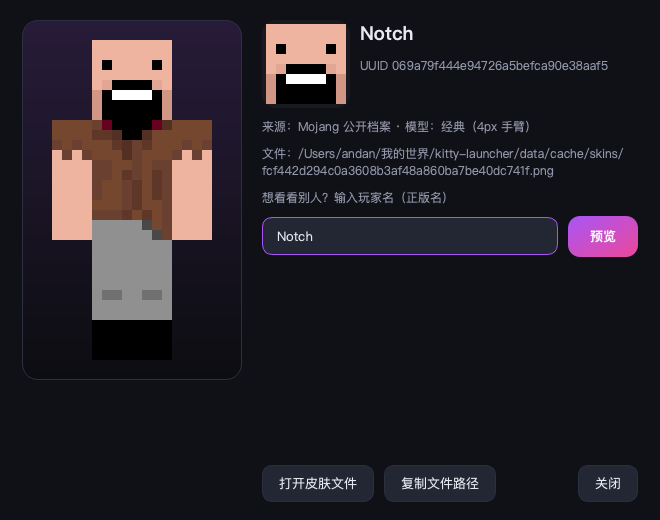
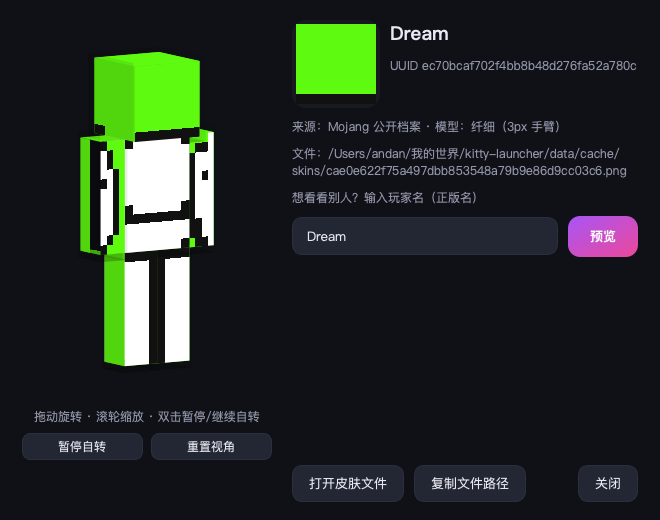
feat: 3D 皮肤预览（正交投影 + quadToQuad 贴图，可拖拽旋转/缩放/自转，兼容 slim 与 legacy）

diff --git a/kitty/skin3d.py b/kitty/skin3d.py
@@ -1,0 +1,327 @@
+"""3D 皮肤渲染：正交投影 + 每个面做四点透视映射，纯 Qt，不用 OpenGL。
+
+思路：
+    1. 把皮肤拆成 6 个长方体部件（头 / 身 / 双臂 / 双腿）
+    2. 每个部件的 6 个面都有标准 UV 区域
+    3. 按 yaw/pitch 旋转 3D 顶点 → 正交投影到 2D → 得到 4 个屏幕坐标
+    4. 用 QTransform.quadToQuad 把「皮肤上的那个矩形」映射到这个四边形上
+    5. 所有面按深度排序后依次画（画家算法），足够画一个方块小人
+
+坐标系：y 向上，脚底 y=0，头顶 y=32；1 单位 = 1 像素（16 单位 = 1 格）。
+"""
+from __future__ import annotations
+
+import math
+from pathlib import Path
+
+from PySide6.QtCore import QPointF, QRectF, Qt
+from PySide6.QtGui import QColor, QImage, QPainter, QPainterPath, QPixmap, QPolygonF, QTransform
+
+# 每个面的 UV 区域：(u, v, w, h)
+HEAD_UV = {
+    "front": (8, 8, 8, 8), "right": (0, 8, 8, 8), "back": (24, 8, 8, 8),
+    "left": (16, 8, 8, 8), "top": (8, 0, 8, 8), "bottom": (16, 0, 8, 8),
+}
+HEAD_OV = {
+    "front": (40, 8, 8, 8), "right": (32, 8, 8, 8), "back": (56, 8, 8, 8),
+    "left": (48, 8, 8, 8), "top": (40, 0, 8, 8), "bottom": (48, 0, 8, 8),
+}
+BODY_UV = {
+    "front": (20, 20, 8, 12), "right": (16, 20, 4, 12), "back": (32, 20, 8, 12),
+    "left": (28, 20, 4, 12), "top": (20, 16, 8, 4), "bottom": (28, 16, 8, 4),
+}
+BODY_OV = {
+    "front": (20, 36, 8, 12), "right": (16, 36, 4, 12), "back": (32, 36, 8, 12),
+    "left": (28, 36, 4, 12), "top": (20, 32, 8, 4), "bottom": (28, 32, 8, 4),
+}
+RARM_UV = {
+    "front": (44, 20, 4, 12), "right": (40, 20, 4, 12), "back": (56, 20, 4, 12),
+    "left": (52, 20, 4, 12), "top": (44, 16, 4, 4), "bottom": (48, 16, 4, 4),
+}
+RARM_OV = {
+    "front": (44, 36, 4, 12), "right": (40, 36, 4, 12), "back": (56, 36, 4, 12),
+    "left": (52, 36, 4, 12), "top": (44, 32, 4, 4), "bottom": (48, 32, 4, 4),
+}
+LARM_UV = {
+    "front": (36, 52, 4, 12), "right": (32, 52, 4, 12), "back": (48, 52, 4, 12),
+    "left": (44, 52, 4, 12), "top": (36, 48, 4, 4), "bottom": (40, 48, 4, 4),
+}
+LARM_OV = {
+    "front": (52, 52, 4, 12), "right": (48, 52, 4, 12), "back": (64, 52, 4, 12),
+    "left": (60, 52, 4, 12), "top": (52, 48, 4, 4), "bottom": (56, 48, 4, 4),
+}
+RLEG_UV = {
+    "front": (4, 20, 4, 12), "right": (0, 20, 4, 12), "back": (16, 20, 4, 12),
+    "left": (12, 20, 4, 12), "top": (4, 16, 4, 4), "bottom": (8, 16, 4, 4),
+}
+RLEG_OV = {
+    "front": (4, 36, 4, 12), "right": (0, 36, 4, 12), "back": (16, 36, 4, 12),
+    "left": (12, 36, 4, 12), "top": (4, 32, 4, 4), "bottom": (8, 32, 4, 4),
+}
+LLEG_UV = {
+    "front": (20, 52, 4, 12), "right": (16, 52, 4, 12), "back": (32, 52, 4, 12),
+    "left": (28, 52, 4, 12), "top": (20, 48, 4, 4), "bottom": (24, 48, 4, 4),
+}
+LLEG_OV = {
+    "front": (4, 52, 4, 12), "right": (0, 52, 4, 12), "back": (52, 52, 4, 12),
+    "left": (48, 52, 4, 12), "top": (4, 48, 4, 4), "bottom": (8, 48, 4, 4),
+}
+
+SHADE = {"front": 1.0, "back": 0.78, "left": 0.86, "right": 0.86, "top": 1.0, "bottom": 0.6}
+
+PARTS = [
+    {"name": "head", "size": (8, 8, 8), "pos": (0, 28, 0), "uv": HEAD_UV, "ov": HEAD_OV},
+    {"name": "body", "size": (8, 12, 4), "pos": (0, 18, 0), "uv": BODY_UV, "ov": BODY_OV},
+    {"name": "rarm", "size": (4, 12, 4), "pos": (6, 18, 0), "uv": RARM_UV, "ov": RARM_OV},
+    {"name": "larm", "size": (4, 12, 4), "pos": (-6, 18, 0), "uv": LARM_UV, "ov": LARM_OV},
+    {"name": "rleg", "size": (4, 12, 4), "pos": (2, 6, 0), "uv": RLEG_UV, "ov": RLEG_OV},
+    {"name": "lleg", "size": (4, 12, 4), "pos": (-2, 6, 0), "uv": LLEG_UV, "ov": LLEG_OV},
+]
+
+
+def _face_quads(hx: float, hy: float, hz: float) -> dict[str, list[tuple[float, float, float]]]:
+    """六个面的 4 个角（顺序：左上、右上、右下、左下）。"""
+    return {
+        "front": [(-hx, hy, hz), (hx, hy, hz), (hx, -hy, hz), (-hx, -hy, hz)],
+        "right": [(hx, hy, hz), (hx, hy, -hz), (hx, -hy, -hz), (hx, -hy, hz)],
+        "back": [(hx, hy, -hz), (-hx, hy, -hz), (-hx, -hy, -hz), (hx, -hy, -hz)],
+        "left": [(-hx, hy, -hz), (-hx, hy, hz), (-hx, -hy, hz), (-hx, -hy, -hz)],
+        "top": [(-hx, hy, hz), (hx, hy, hz), (hx, hy, -hz), (-hx, hy, -hz)],
+        "bottom": [(-hx, -hy, -hz), (hx, -hy, -hz), (hx, -hy, hz), (-hx, -hy, hz)],
+    }
+
+
+def _rotate(p: tuple[float, float, float], yaw: float, pitch: float) -> tuple[float, float, float]:
+    x, y, z = p
+    cy, sy = math.cos(yaw), math.sin(yaw)
+    x, z = x * cy + z * sy, -x * sy + z * cy
+    cp, sp = math.cos(pitch), math.sin(pitch)
+    y, z = y * cp - z * sp, y * sp + z * cp
+    return x, y, z
+
+
+def parts_for(slim: bool = False) -> list[dict]:
+    """slim（Alex）模型手臂只有 3 宽，位置也要往里收 0.5。"""
+    out = []
+    for part in PARTS:
+        if slim and part["name"] in ("rarm", "larm"):
+            sign = 1 if part["name"] == "rarm" else -1
+            out.append({**part, "size": (3, 12, 4), "pos": (sign * 5.5, 18, 0)})
+        else:
+            out.append(part)
+    return out
+
+
+def render(
+    skin_path: Path | str,
+    width: int = 300,
+    height: int = 420,
+    yaw_deg: float = 25.0,
+    pitch_deg: float = 6.0,
+    scale: float = 1.0,
+    overlays: bool = True,
+    slim: bool = False,
+) -> QPixmap:
+    img = QImage(str(skin_path))
+    if img.isNull():
+        return QPixmap()
+
+    legacy = img.height() < 64
+    yaw = math.radians(yaw_deg)
+    pitch = math.radians(pitch_deg)
+
+    # 先把所有面算成 {depth, polygon, uv}
+    faces: list[dict] = []
+    for part in parts_for(slim):
+        sx, sy, sz = part["size"]
+        px, py, pz = part["pos"]
+        uv_base = part["uv"]
+        if legacy and part["name"] == "larm":
+            uv_base = RARM_UV   # 64×32 老皮肤没有左臂，用右臂顶替
+        elif legacy and part["name"] == "lleg":
+            uv_base = RLEG_UV
+        variants = [(1.0, uv_base)]
+        if overlays and not legacy:
+            variants.append((1.12, part["ov"]))  # 叠加层稍微放大一点，避免和本体 z-fighting
+
+        for inflate, uvmap in variants:
+            hx, hy, hz = sx * inflate / 2, sy * inflate / 2, sz * inflate / 2
+            quads = _face_quads(hx, hy, hz)
+            for face, corners in quads.items():
+                uv = uvmap.get(face)
+                if not uv:
+                    continue
+                pts3 = [(x + px, y + py, z + pz) for (x, y, z) in corners]
+                rot = [_rotate(p, yaw, pitch) for p in pts3]
+                depth = sum(p[2] for p in rot) / 4.0
+                # UV 顺序：左上、右上、右下、左下
+                u, v, uw, uh = uv
+                faces.append({
+                    "depth": depth,
+                    "pts": rot,
+                    "uv": (u, v, uw, uh),
+                    "shade": SHADE.get(face, 1.0),
+                })
+
+    # 远的先画
+    faces.sort(key=lambda f: f["depth"])
+
+    pm = QPixmap(width, height)
+    pm.fill(Qt.transparent)
+    p = QPainter(pm)
+    p.setRenderHint(QPainter.Antialiasing, True)
+    p.setRenderHint(QPainter.SmoothPixmapTransform, False)  # 像素风要硬边
+
+    # 按投影后的包围盒居中，避免不同角度/身高时跑出画布
+    xs = [pt.x() for face in faces for pt in [QPointF(x, -y) for (x, y, _z) in face["pts"]]]
+    ys = [pt.y() for face in faces for pt in [QPointF(x, -y) for (x, y, _z) in face["pts"]]]
+    if not xs:
+        p.end()
+        return pm
+    span_x = max(xs) - min(xs) or 1.0
+    span_y = max(ys) - min(ys) or 1.0
+    base = min(width * 0.82 / span_x, height * 0.86 / span_y) * scale
+    cx = width / 2.0 - (min(xs) + max(xs)) / 2.0 * base
+    cy = height / 2.0 - (min(ys) + max(ys)) / 2.0 * base
+
+    for face in faces:
+        src = QPolygonF([
+            QPointF(face["uv"][0], face["uv"][1]),
+            QPointF(face["uv"][0] + face["uv"][2], face["uv"][1]),
+            QPointF(face["uv"][0] + face["uv"][2], face["uv"][1] + face["uv"][3]),
+            QPointF(face["uv"][0], face["uv"][1] + face["uv"][3]),
+        ])
+        dst = QPolygonF([QPointF(cx + x * base, cy - y * base) for (x, y, _z) in face["pts"]])
+
+        # 退化（侧到看不见）就跳过
+        area = abs(
+            (dst[1].x() - dst[0].x()) * (dst[3].y() - dst[0].y())
+            - (dst[3].x() - dst[0].x()) * (dst[1].y() - dst[0].y())
+        )
+        if area < 0.6:
+            continue
+
+        transform = QTransform()
+        if not QTransform.quadToQuad(src, dst, transform):
+            continue
+        p.save()
+        p.setTransform(transform, True)
+        u, v, uw, uh = face["uv"]
+        p.drawImage(QRectF(u, v, uw, uh), img, QRectF(u, v, uw, uh))
+        p.restore()
+
+        shade = face.get("shade", 1.0)
+        if shade < 1.0:
+            path = QPainterPath()
+            path.addPolygon(dst)
+            path.closeSubpath()
+            p.fillPath(path, QColor(0, 0, 0, int(255 * (1.0 - shade) * 0.55)))
+
+    p.end()
+    return pm
+
+
+def render_angles(skin_path: Path | str, out_dir: Path | str, yaw_list=(0, 35, 70, 135, 180), size=(240, 340)) -> list[Path]:
+    """调试/截图用：转一圈各存一张。"""
+    out_dir = Path(out_dir)
+    out_dir.mkdir(parents=True, exist_ok=True)
+    paths = []
+    for yaw in yaw_list:
+        pm = render(skin_path, size[0], size[1], yaw_deg=yaw, pitch_deg=8)
+        p = out_dir / f"skin3d-yaw{yaw}.png"
+        pm.save(str(p), "PNG")
+        paths.append(p)
+    return paths
+
+
+# ---------------------------------------------------------------- 交互控件
+
+try:
+    from PySide6.QtCore import QPoint, QTimer
+    from PySide6.QtWidgets import QWidget
+
+    class Skin3DView(QWidget):
+        """可拖拽旋转、滚轮缩放、自动转圈的 3D 皮肤视图。"""
+
+        def __init__(self, parent=None):
+            super().__init__(parent)
+            self.skin_path: Path | str = ""
+            self.slim = False
+            self.yaw = 25.0
+            self.pitch = 6.0
+            self.zoom = 1.0
+            self._drag = None
+            self.setMinimumSize(220, 340)
+            self.setCursor(Qt.OpenHandCursor)
+            self._timer = QTimer(self)
+            self._timer.timeout.connect(self._spin)
+            self._timer.start(50)
+            self.auto = True
+
+        # ---- 数据
+        def set_skin(self, path: Path | str, slim: bool = False) -> None:
+            self.skin_path = path or ""
+            self.slim = slim
+            self.update()
+
+        def reset_view(self) -> None:
+            self.yaw, self.pitch, self.zoom = 25.0, 6.0, 1.0
+            self.update()
+
+        def toggle_auto(self) -> bool:
+            self.auto = not self.auto
+            return self.auto
+
+        # ---- 动画
+        def _spin(self) -> None:
+            if self.auto and self.isVisible():
+                self.yaw = (self.yaw + 1.1) % 360
+                self.update()
+
+        # ---- 绘制
+        def paintEvent(self, event):  # noqa: N802
+            p = QPainter(self)
+            p.setRenderHint(QPainter.Antialiasing, True)
+            if not self.skin_path:
+                p.setPen(QColor("#9498ac"))
+                p.drawText(self.rect(), Qt.AlignCenter, "还没有皮肤")
+                p.end()
+                return
+            pm = render(
+                self.skin_path, self.width(), self.height(),
+                yaw_deg=self.yaw, pitch_deg=self.pitch, scale=self.zoom,
+                slim=self.slim,
+            )
+            if not pm.isNull():
+                p.drawPixmap(0, 0, pm)
+            p.end()
+
+        # ---- 交互
+        def mousePressEvent(self, event):  # noqa: N802
+            if event.button() == Qt.LeftButton:
+                self._drag = event.position().toPoint()
+                self.setCursor(Qt.ClosedHandCursor)
+
+        def mouseMoveEvent(self, event):  # noqa: N802
+            if self._drag is None:
+                return
+            pos = event.position().toPoint()
+            self.yaw += (pos.x() - self._drag.x()) * 0.7
+            self.pitch = max(-40.0, min(40.0, self.pitch + (pos.y() - self._drag.y()) * 0.4))
+            self._drag = pos
+            self.update()
+
+        def mouseReleaseEvent(self, event):  # noqa: N802
+            self._drag = None
+            self.setCursor(Qt.OpenHandCursor)
+
+        def wheelEvent(self, event):  # noqa: N802
+            delta = 1.0 if event.angleDelta().y() > 0 else -1.0
+            self.zoom = max(0.6, min(2.2, self.zoom + delta * 0.08))
+            self.update()
+
+        def mouseDoubleClickEvent(self, event):  # noqa: N802
+            self.toggle_auto()
+
+except Exception:  # pragma: no cover - 只有无 Qt 环境才会走到
+    Skin3DView = None  # type: ignore[assignment]

diff --git a/kitty/dialogs.py b/kitty/dialogs.py
@@ -423,18 +423,35 @@ class SkinPreviewDialog(QDialog):
         lay.setContentsMargins(22, 20, 22, 18)
         lay.setSpacing(20)
 
-        # ---- 左：站姿
+        # ---- 左：3D 视图
+        from .skin3d import Skin3DView
+
         left = QVBoxLayout()
         left.setSpacing(8)
-        self.body_label = QLabel("加载中…")
-        self.body_label.setAlignment(Qt.AlignCenter)
-        self.body_label.setFixedSize(220, 360)
-        self.body_label.setStyleSheet(
+        self.view3d = Skin3DView()
+        self.view3d.setFixedSize(250, 380)
+        self.view3d.setStyleSheet(
             "background: qlineargradient(x1:0,y1:0,x2:0,y2:1,"
             "stop:0 rgba(168,85,247,0.16), stop:1 rgba(0,0,0,0.25));"
             "border: 1px solid #2b3040; border-radius: 16px;"
         )
-        left.addWidget(self.body_label, 0, Qt.AlignHCenter)
+        left.addWidget(self.view3d, 0, Qt.AlignHCenter)
+
+        hint = QLabel("拖动旋转 · 滚轮缩放 · 双击暂停/继续自转")
+        hint.setObjectName("Hint")
+        hint.setAlignment(Qt.AlignCenter)
+        left.addWidget(hint)
+
+        view_row = QHBoxLayout()
+        self.spin_btn = QPushButton("暂停自转")
+        self.spin_btn.setObjectName("Tiny")
+        self.spin_btn.clicked.connect(self.toggle_spin)
+        reset_btn = QPushButton("重置视角")
+        reset_btn.setObjectName("Tiny")
+        reset_btn.clicked.connect(lambda: self.view3d.reset_view())
+        view_row.addWidget(self.spin_btn)
+        view_row.addWidget(reset_btn)
+        left.addLayout(view_row)
         left.addStretch(1)
         lay.addLayout(left)
 
@@ -522,12 +539,8 @@ class SkinPreviewDialog(QDialog):
 
         info = skin.resolve(who)
         self.info = info
-        body = skin.body(info["path"], 10, slim=(info.get("model") == "slim"))
+        self.view3d.set_skin(info["path"], slim=(info.get("model") == "slim"))
         head = skin.head(info["path"], 80)
-        if body.isNull():
-            self.body_label.setText("这张皮肤读不出来")
-        else:
-            self.body_label.setPixmap(body)
         if not head.isNull():
             self.head_label.setPixmap(head)
 
@@ -538,6 +551,10 @@ class SkinPreviewDialog(QDialog):
                                   + (f"\n{info['error']}" if info.get("error") else ""))
         self.path_label.setText(f"文件：{info['path']}")
         self.open_btn.setEnabled(bool(info.get("path")))
+
+    def toggle_spin(self) -> None:
+        running = self.view3d.toggle_auto()
+        self.spin_btn.setText("暂停自转" if running else "继续自转")
 
     def open_file(self) -> None:
         import subprocess
